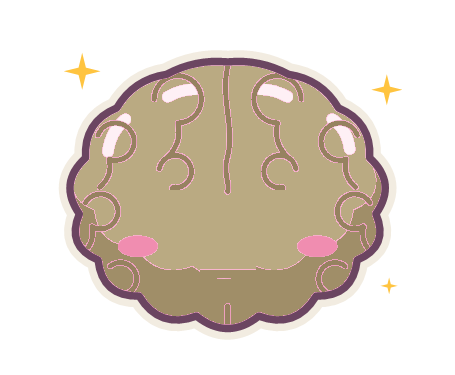
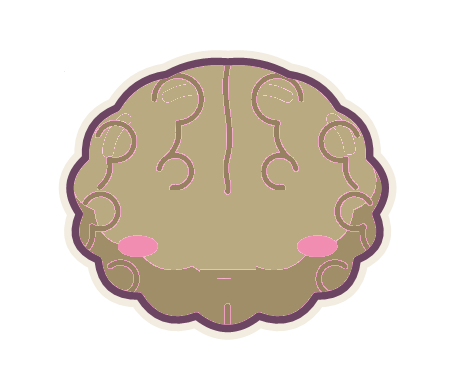
Preserve mascot mood details and export CI visuals

diff --git a/scripts/extract-brain-assets.py b/scripts/extract-brain-assets.py
@@ -51,8 +51,19 @@ def rgb(value):
     return (value >> 16, (value >> 8) & 255, value & 255)
 for stage, colors in enumerate(palette):
     image = body.copy()
+    if stage >= 2:
+        # Exterior sparkles belong only to fresh/sleepy moods, as in both original renderers.
+        for left, top, right, bottom in [(558, 75, 594, 116), (862, 92, 900, 132), (870, 294, 898, 328)]:
+            image.paste((0, 0, 0, 0), (left - 493, top - 24, right - 493, bottom - 24))
+    if stage >= 3:
+        # Gloss is an expression-layer detail. BrainExact remains untouched.
+        for y in range(image.height):
+            for x in range(image.width):
+                r, g, b, a = image.getpixel((x, y))
+                if a and r >= 248 and g > 205 and b > 228:
+                    image.putpixel((x, y), (*rgb(palette[0][0]), a))
     replacements = dict(zip(map(rgb, palette[0]), map(rgb, colors)))
-    image.putdata([(*replacements.get(p[:3], p[:3]), p[3]) for p in body.getdata()])
+    image.putdata([(*replacements.get(p[:3], p[:3]), p[3]) for p in image.get_flattened_data()])
     save("BrainBody" + str(stage), image)
 
 print("Extracted exact mascot and six expression layers for both apps.")
